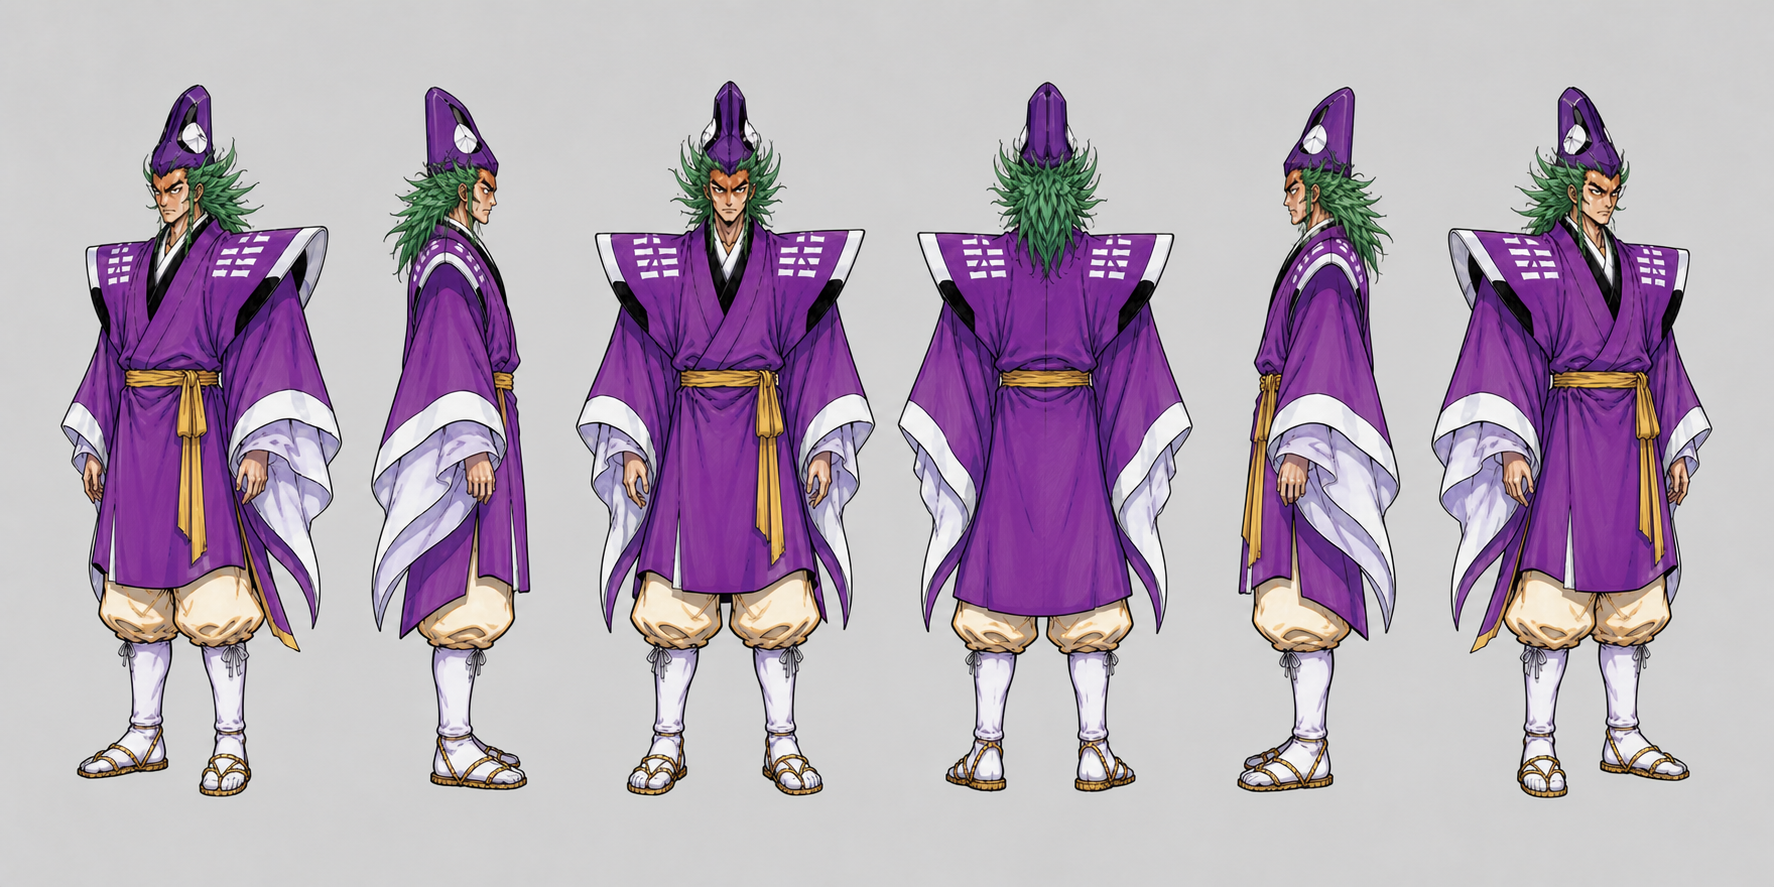
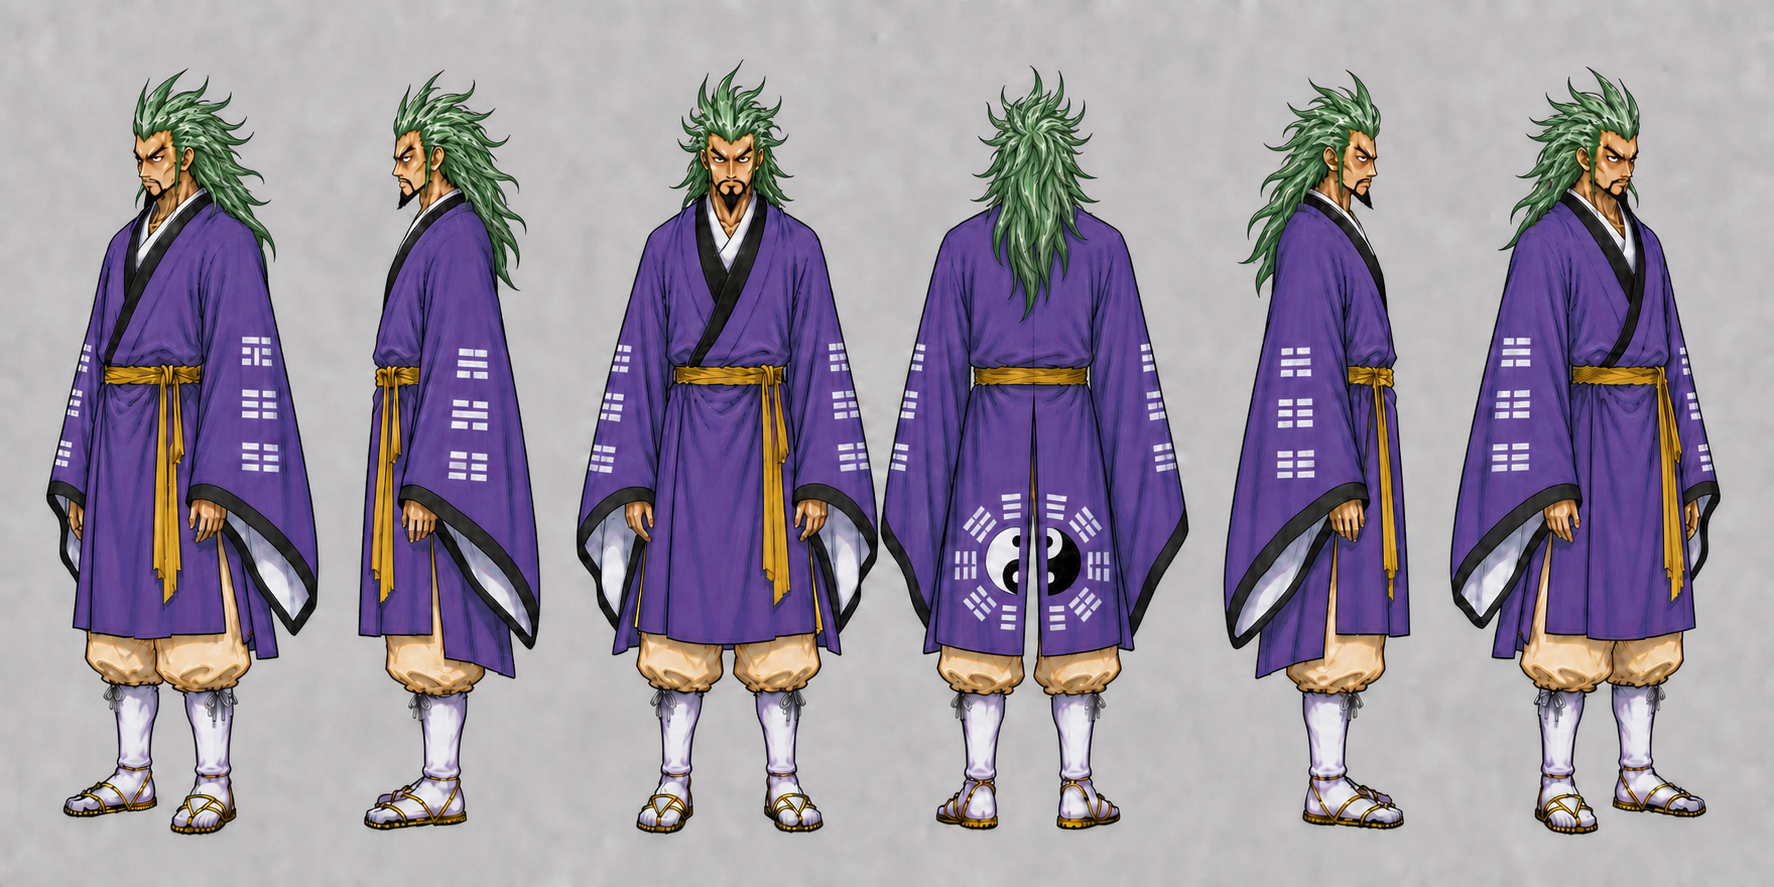
fix(model-sheets): 完善 001、004 与 015 角色设定
新增 001 原画姿态六视图及生成记录。\n\n修正 004 公孙胜的身份、发型、道袍结构、纹样和头部表，并调整 015 腰部飘带锚点、垂坠方向与袖长。\n\n同步项目清单，保留各轮返修版本与生成提示。

diff --git a/character-model-sheets/characters/004/review-notes.md b/character-model-sheets/characters/004/review-notes.md
@@ -1,9 +1,21 @@
 # 004 新版六视图生产复核
 
-- 状态：`generated`，人物六视图与所需独立实体均已生成并通过全量复核；未标记为 `approved`。
+- 状态：`generated`，人物六视图已按“静态宽袖自然下垂”规则完成返修；未标记为 `approved`。
 - 需交付：人物六视图；武器／标志道具。
 
 ## 人物六视图
+
+- [x] 2026-08-21 三次返修验收：静态中立站姿无风，肥大宽袖受重力自然下垂，不上扬、不横向展开、不漂浮。
+- [x] 2026-08-21 三次返修验收：袖子仍保持肥大道袍结构与柔软垂坠褶皱，未退化成窄袖或硬挺肩板。
+
+- [x] 2026-08-21 二次返修验收：年龄明确为四十多岁，保持中年道士气质，不得年轻化。
+- [x] 2026-08-21 二次返修验收：胡型固定为黑色八字胡加山羊胡，不得变为绿色胡须、络腮胡或单独短山羊胡。
+- [x] 2026-08-21 二次返修验收：道袍自然窄肩、无肩甲肩垫；两只肥大宽袖为受风鼓起的软布，不得生成硬挺宽肩。
+- [x] 2026-08-21 纹样纠正后验收：白色八卦卦纹只位于两侧袖面并随布料转面；袖面无太极图、阴阳鱼或黑白阴阳圆标；太极图与八卦图组合位于道袍背部。
+
+- [x] 2026-08-21 返修验收：六个全身视图和四个头部放大视图均裸头无帽。
+- [x] 2026-08-21 返修验收：绿色火焰状长发只连接头皮，不连接脸颊或下颌，不被误作绿色大胡子。
+- [x] 2026-08-21 返修验收：脸下部保留克制的黑色胡须；原图被剑遮挡的中央形态不作夸张补全。
 
 - [x] 固定顺序为基于左面逆时针转45度、左面、正面、背面、右面、基于右面顺时针转45度。
 - [x] 第一列与第六列来自相反侧面基准，近侧结构与远侧遮挡相反，未复制或水平翻转。
@@ -20,4 +32,41 @@
 ## 证据边界与版本
 
 - 背面、远侧、内部与遮挡结构继续按 `inferred` 或 `unknown` 处理，不宣称为原作事实。
+- 2026-08-21 用户确认：现有图中的紫色高帽属于误生成；原图无帽。绿色结构是头发，不是胡须；胡须为脸下部黑色结构。
+- 2026-08-21 用户确认：角色为四十多岁的入云龙公孙胜，是中国古代会法术的道士；胡型为黑色八字胡加山羊胡；服装为肥大袖道袍，八卦图在袖子上而不是肩膀上。原画动作中的风鼓状态不用于中立六视图。
+- 2026-08-21 用户进一步澄清：中立静态六视图中的道袍不应呈现被风吹起的姿态；只保留肥大宽袖结构，袖子按重力自然下垂。
+- 2026-08-21 用户纠正纹样位置：道袍背部有太极图与八卦图；袖子只有八卦图，没有太极图。此条覆盖此前“阴阳纹位于袖面”的错误记录。
 - 旧版资产已保留为递增版本文件；当前主文件将用于新版交付。
+
+## 2026-08-21 道袍纹样局部返修
+
+- [x] 删除六个视角中两侧袖面上的全部太极图、阴阳鱼与黑白阴阳圆标，替换为白色八卦卦爻纹样。
+- [x] 第四列纯背面道袍加入居中的太极图与八卦图组合，并允许绿色长发按真实关系遮挡上缘。
+- [x] 保持静态宽袖自然下垂、人物身份、年龄、脸、发型、胡型、服装层级、六视图顺序、尺度、基线与背景不变。
+- 输出：`character-turnaround.png`；本次返修前版本保留为 `character-turnaround-v5.png`；状态继续为 `generated`，等待用户批准。
+
+## 2026-08-21 袖口、后衣片与头发返修
+
+- [x] 六个视角的紫色外袖袖口均改为连续黑色包边；白色内袖只在黑边内侧露出。
+- [x] 第四列纯背面改为从后腰中线左右分叉的两片独立后衣片，中立状态分别自然下垂，可在动作状态中独立受风抬起。
+- [x] 太极八卦完整图案沿后衣片中缝分成左右两半；每半固定在对应衣片上，中缝清楚中断图案。
+- [x] 历史中间版本曾把绿色长发归并为少量粗大发束；该尺度随后被用户判定过粗，已由后续“中等粗细发束返修”覆盖。
+- [x] 保持人物身份、年龄、脸型、黑色八字胡与山羊胡、宽袖垂坠、袖面仅八卦纹、六视图顺序、尺度、基线与背景不变。
+- 输出：`character-turnaround.png`、`head-sheet.png`；返修前版本分别保留为 `character-turnaround-v6.png`、`head-sheet-v2.png`；状态继续为 `generated`，等待用户批准。
+
+## 2026-08-21 头发质感返修
+
+- [x] 当次保持中间版本的发束数量、轮廓、长度和方向，仅返修绿色头发的表面质感与内部线条；发束尺度随后按用户意见继续返修。
+- [x] 每个主发束加入顺生长方向弯曲的深色墨线分丝、深墨绿根部和沟槽、青绿主体、薄荷绿／灰白干笔高光与轻微水彩颗粒。
+- [x] 头发不再呈现光滑塑料、橡胶叶片、镜面三维渲染、均匀喷枪渐变或平涂矢量质感，也未恢复为大量零散细丝。
+- [x] 人物身份、脸型、年龄、胡型、袖口黑边、袖面八卦、左右后衣片、分割太极八卦、六视图顺序与头部四视图顺序保持不变。
+- 输出：`character-turnaround.png`、`head-sheet.png`；返修前版本分别保留为 `character-turnaround-v7.png`、`head-sheet-v3.png`；状态继续为 `generated`，等待用户批准。
+
+## 2026-08-21 中等粗细发束返修
+
+- [x] 当前发色、深浅绿叠色、墨线分丝、干笔高光和水彩颗粒保持不变。
+- [x] 把均匀粗大的放射状发束拆分为中等数量、中等粗细、长短与宽度不一、自然弯曲交叠的细长发束。
+- [x] 顶部发束向上弯曲、侧面发束分层后扫、后颈发束自然下垂；不再形成超级赛亚人式放射尖刺或粗大叶片轮廓。
+- [x] 发束仍保持成组可读，没有碎成大量互不连接的微小发丝；六视图与头部四视图使用一致的三维结构。
+- [x] 人物身份、脸型、年龄、胡型、袖口黑边、袖面八卦、左右后衣片、分割太极八卦、六视图与头部四视图顺序均保持不变。
+- 输出：`character-turnaround.png`、`head-sheet.png`；返修前版本分别保留为 `character-turnaround-v8.png`、`head-sheet-v4.png`；状态继续为 `generated`，等待用户批准。

diff --git a/character-model-sheets/characters/001/review-notes.md b/character-model-sheets/characters/001/review-notes.md
@@ -2,6 +2,19 @@
 
 - 日期：2026-08-19。
 - 状态：`generated`，等待用户确认后再标记为 `approved`。
+
+## 原画姿态版六视图
+
+- 日期：2026-08-21。
+- 独立输出：`character-turnaround-original-pose.png`；生成提示：`original-pose-turnaround-prompt.txt`。
+- 默认输出保护：现有中立站姿 `character-turnaround.png` 不覆盖、不改名，继续作为结构展示版。
+- 姿态锁定：角色自身右臂高举、食指指天，左臂向外握持白色长带状道具；双腿大幅跨步下沉，躯干扭转、下巴上抬。
+- 服装与道具：红袍、披帛、衣摆及白色长带状道具的原画动态轮廓作为冻结三维关系，六个视角只旋转人物与道具整体，不重新摆姿势。
+- 视图顺序：基于左面逆时针转45度、左面、正面、背面、右面、基于右面顺时针转45度。
+- 场景处理：原图雷电、岩石、题字牌和环境背景不属于人物模型结构，不进入新六视图。
+- 坐骑与宠物：原图未见，保持 `absent`，不添加。
+- 生成验收：六列均保留抬右臂指天、左手持白色长带、宽步下沉和红袍迎风展开；正面、背面、左右侧面与两个相对 45 度视角齐全，人物及道具无裁切。
+- 状态：`generated`，等待用户确认。
 - 当前人物表：`character-turnaround.png`，六个全身视角同高、同基线、同一头身比，无裁切。
 - 固定顺序：基于左面逆时针转45度、左面、正面、背面、右面、基于右面顺时针转45度。
 - 相对视角检查：第一列由左面基准转出，第六列由右面基准转出；两列近侧脸颊、肩膀、胸甲透视和肢体遮挡相反，未复用或水平翻转。

diff --git a/character-model-sheets/characters/015/review-notes.md b/character-model-sheets/characters/015/review-notes.md
@@ -21,3 +21,18 @@
 
 - 背面、远侧、内部与遮挡结构继续按 `inferred` 或 `unknown` 处理，不宣称为原作事实。
 - 旧版资产已保留为递增版本文件；当前主文件将用于新版交付。
+
+## 2026-08-21 用户返修
+
+- [x] 把大型绿色双股飘带状构件的根部从头部／肩部移除，固定到后腰腰带左右两侧；头部、颈部、衣领和肩部不得出现连接点。
+- [x] 把红紫纹样短袍的袖子改为宽大长袖，袖口接近手腕，不得保持现图的肘上短袖。
+- [x] 仅修改以上结构；人物身份、头饰羽片、体型、服装配色与纹样、六视图顺序、尺度、基线和背景保持不变。
+- 输出：`character-turnaround.png`；返修前版本保留为 `character-turnaround-v2.png`；状态继续为 `generated`，等待用户批准。
+
+## 2026-08-21 第二轮用户返修
+
+- [x] 保留现有已经自然下垂的绿色飘带形态作为基准。
+- [x] 把其他视角中向腰线上方、头部或肩部回卷的绿色飘带改为从后腰沿臀腿后方自然下垂；不得形成高耸 C／S 形环。
+- [x] 第一列与第六列的相对 45° 视图保留可见的近侧下垂飘带，远侧按真实空间关系遮挡，不得省略整个锚点结构。
+- [x] 只修改绿色飘带的受力方向与轮廓；后腰锚点、长袖、头部羽片、人物身份、六视图角度、尺度、基线和背景保持不变。
+- 输出：`character-turnaround.png`；本轮返修前版本保留为 `character-turnaround-v3.png`；状态继续为 `generated`，等待用户批准。
